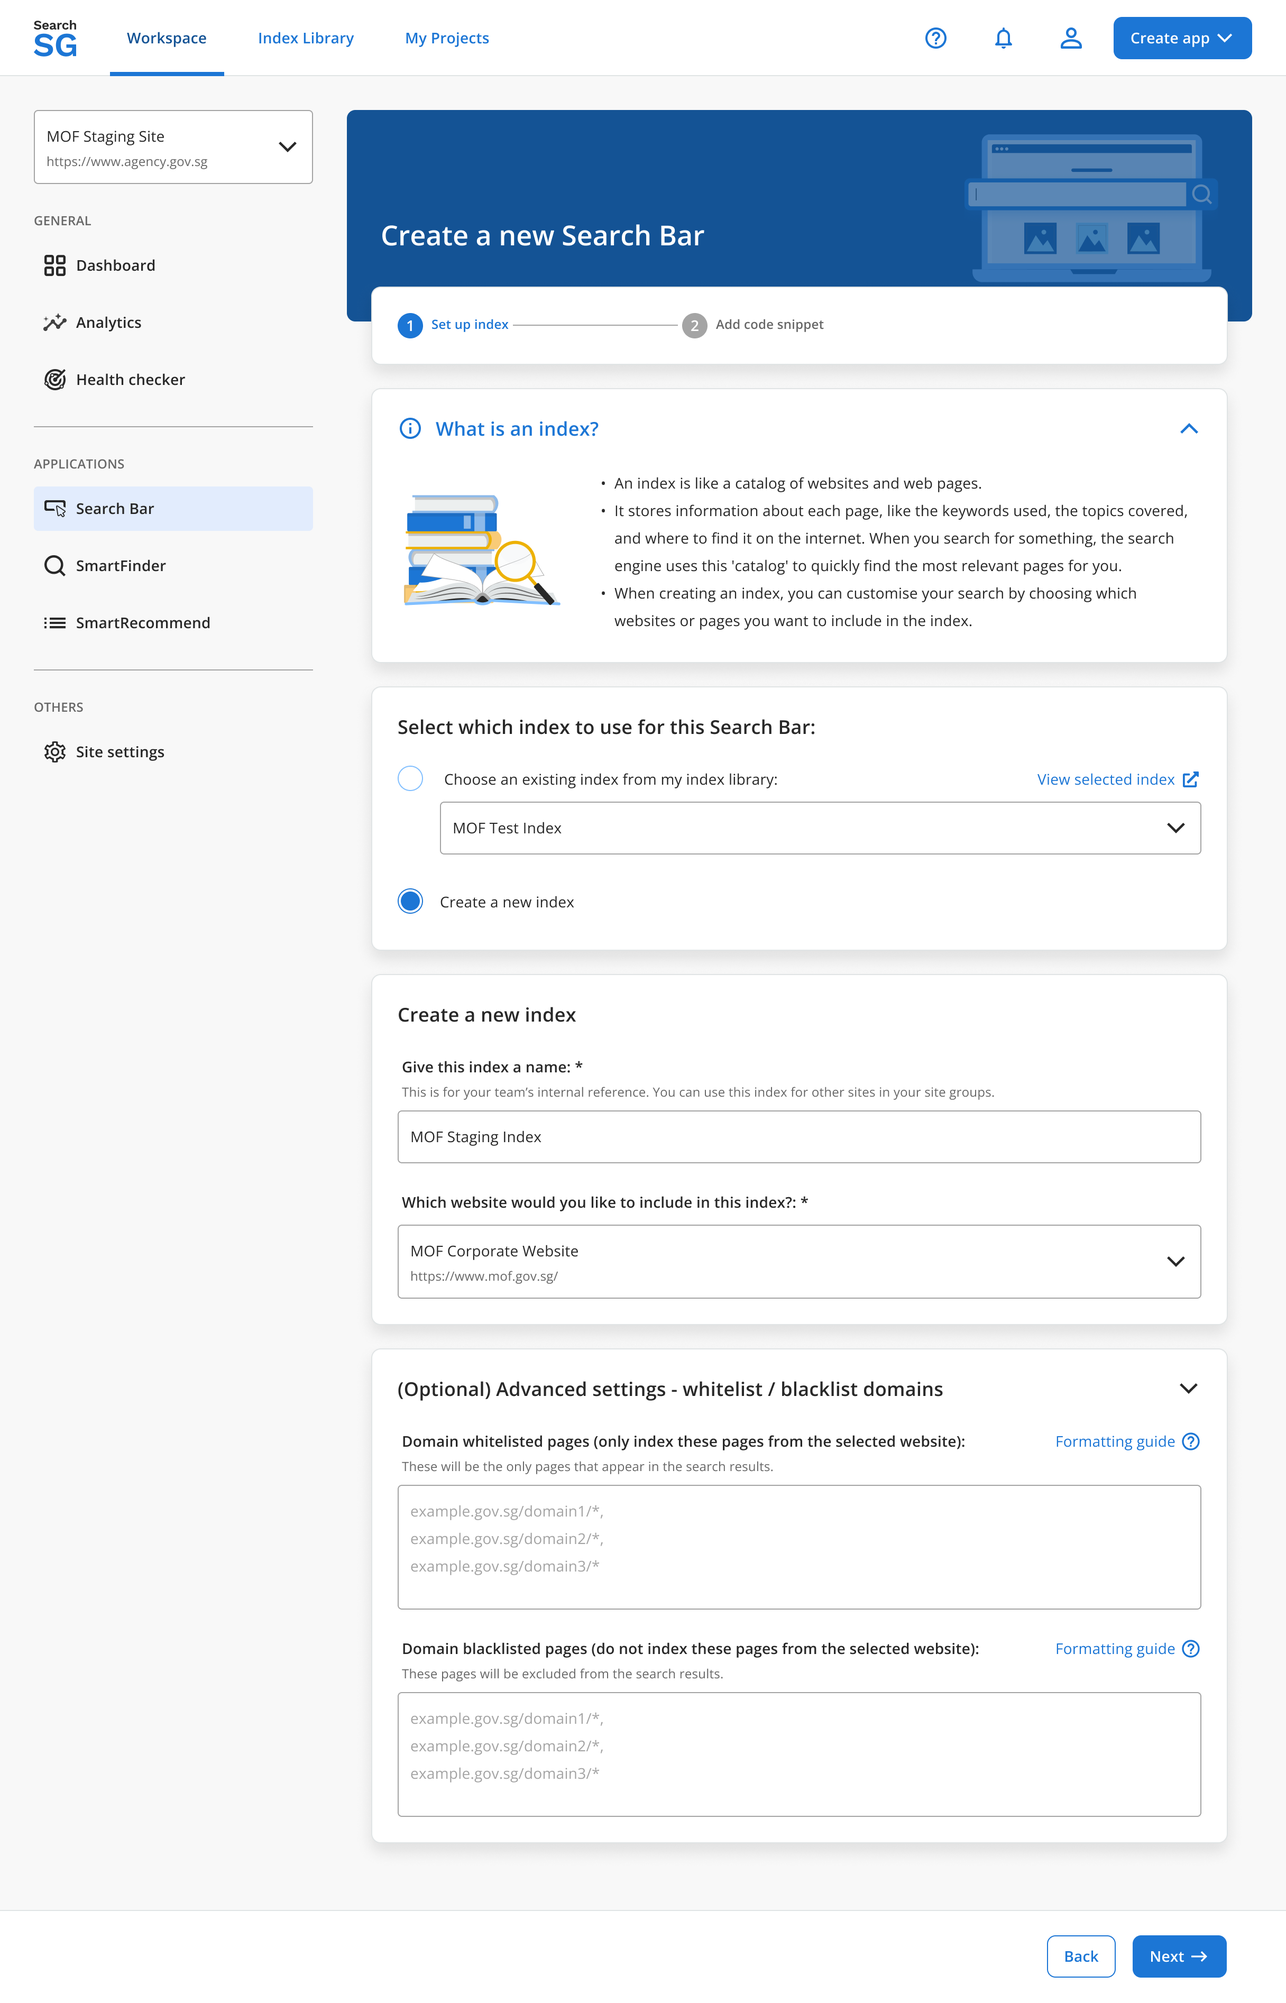
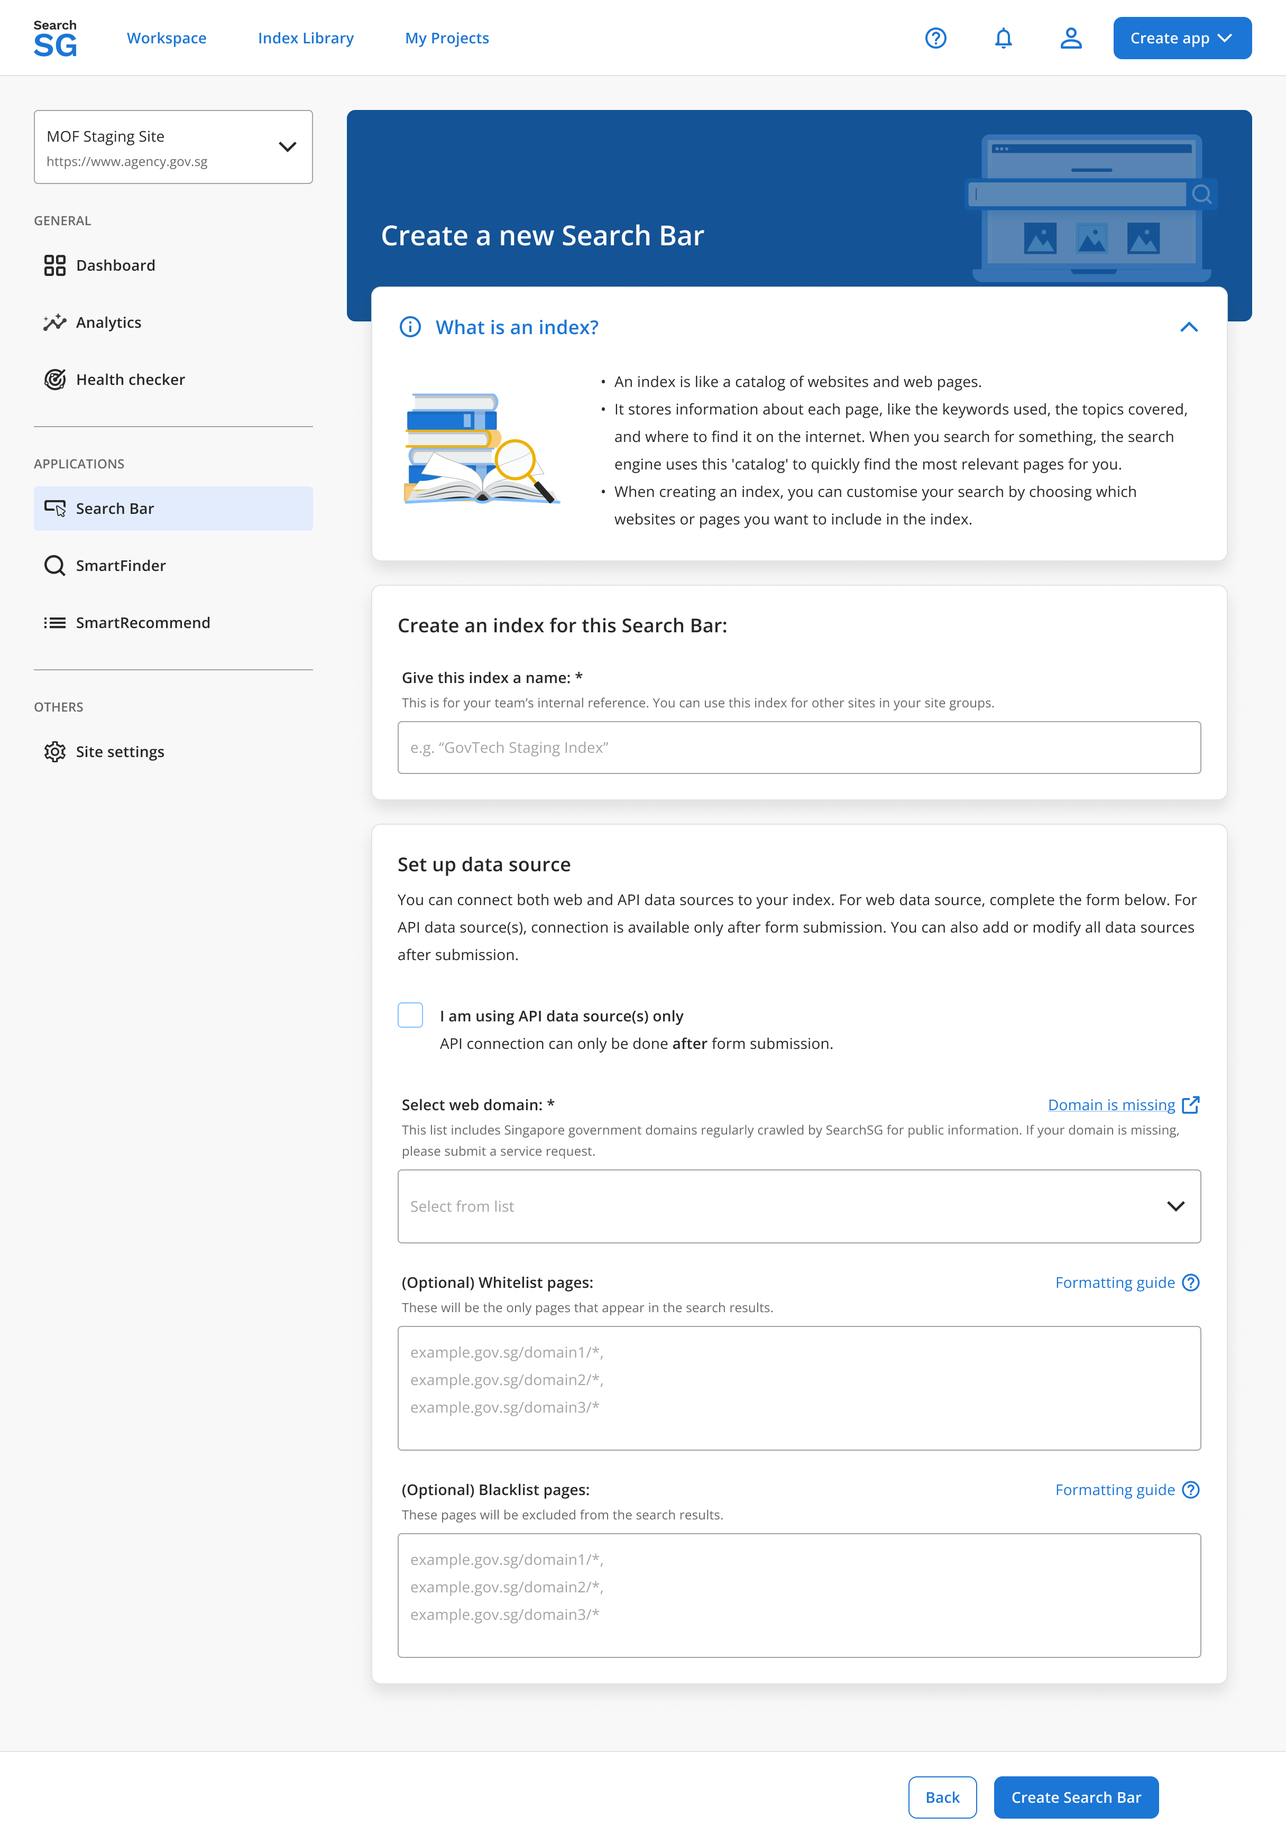
[MISC][YH] Update create search app

diff --git a/application-searchbar.md b/application-searchbar.md
@@ -1,42 +1,55 @@
 ## Search Bar Application
+
 ### How to create a Search Bar Application?
+
 1. Login to Admin Portal.
 
 2. Click on "Create app" then "Search Bar".
-![Create app](images/application/search_bar/add_search_app.png)
+   ![Create app](images/application/search_bar/add_search_app.png)
 
-3. Choose the site you would like to host the search bar then click next. 
-![Create app](images/application/search_bar/define_host_site.png)
-   - If you would like to host the search bar on your existing site, select the site from the drop-down list
+3. Choose the site you would like to host the search bar then click next.
+   ![Create app](images/application/search_bar/define_host_site.png)
 
-   - If you would like to host the search bar on a new site, select the option "Create a new site" and enter the information such as name, URL and choose the environment
-   ![Create app](images/application/search_bar/create_site.png)
+    - If you would like to host the search bar on your existing site, select the site from the drop-down list
 
-   - If you would like to add the new site into your existing project, select the project from the drop-down list
+    - If you would like to host the search bar on a new site, select the option "Create a new site" and enter the information such as name, URL and choose the environment
+      ![Create app](images/application/search_bar/create_site.png)
 
-   - If you would like to add the new site into a new project, select the option "Create a new project" and enter the project name and choose the agency<br>
-   ![Create app](images/application/search_bar/create_project.png)
+    - If you would like to add the new site into your existing project, select the project from the drop-down list
 
-4. Set up index and click "Next"
-   - If you would like to choose the existing from your index library, select the index from the drop-down list
-   ![Create ap](images/application/search_bar/setup_index.png)
-   - If you would like to create a new index, select the option "Create a new index" and enter the index name and website to include in the index. Whitelist and blacklist domains are optional. 
-   ![Create ap](images/application/search_bar/search_bar_create_index.png)
+    - If you would like to add the new site into a new project, select the option "Create a new project" and enter the project name and choose the agency<br>
+      ![Create app](images/application/search_bar/create_project.png)
 
-5. Add code snippet and click on "Complete setup"
-   - After completing the setup, you will be shown a unique `client ID` for your application. Follow the integration guide to complete the integration with your website.
-   ![Create app](images/application/search_bar/complete_setup.png)
-   ![Create app](images/application/search_bar/successful_modal.png)
+4. Set up index and click "Create Search Bar"
 
-6. Click on "View Search Bar settings" to access the application setup page. The application status will initially show as "Inactive" and will change to "Active" once the integration is complete on your website.
-![Create app](images/application/search_bar/search_bar_basic_setup.png)
+    - If you would like to choose the existing from your index library, select the index from the drop-down list
+      ![Create app](images/application/search_bar/setup_index.png)
+    - If you would like to create a new index, select the option "Create a new index" and enter the index name and website to include in the index. Whitelist and blacklist domains are optional.
+      ![Create app](images/application/search_bar/search_bar_create_index.png)
+        - If only API data source(s) are being used., tick the option "I am using API data source(s) only".
+          ![Create app](images/application/search_bar/search_bar_create_index_api_data_source.png)
 
+5. Add code snippet and click on "View dashboard"
+
+    - After completing the setup, you will be shown a unique `client ID` for your application. Follow the integration guide to complete the integration with your website.
+      ![Create app](images/application/search_bar/complete_setup.png)
+    - If the option "I am using API data source(s) only" is selected in the previous step, in addition to following the guide to complete the integration with your website, you must also:
+        - Click on "Add API data source".  
+          ![Create app](images/application/search_bar/complete_setup_API_data_source.png)
+        - Complete the creation of the index on the "Index Overview" - "Data Sources" page. Follow Step 7 in the guide on [create a Search index](/index#how-to-create-a-search-index) to proceed.
+          ![Create app](images/application/search_bar/search_bar_index_overview.png)
+
+6. Click on "View dashboard" to access the dashboard page.
+    - The application status will initially show as "Inactive" and will change to "Active" once the integration is complete on your website.
 
 ### Configuring your Search Bar
+
 Once your search Bar application is created, you can customise your search application under `Applications > Search Bar` section in the side menu.
 
 #### Basic Setup
+
 1. Search Bar Placement
+
     - Enter the HTML Id of the container div element where you would like the search bar component to be rendered on your website.
     - Follow the onboarding guide on how to [add the searchbar widget to your website](https://docs.developer.tech.gov.sg/docs/searchsg-onboarding-guide/getting-started?id=step-2-adding-searchbar-widget-to-your-site).
 
@@ -45,111 +58,125 @@ Once your search Bar application is created, you can customise your search appli
     - If you have chosen to embed the search results `within your own website`, follow the onboarding guide on how to [embed the search results page within your website search page.](https://docs.developer.tech.gov.sg/docs/searchsg-onboarding-guide/customisation-embed?id=embedded-search-results-page-experience)
 
 #### Advanced Setup
+
 Follow the index guide on how to [create, configure and delete a Search index](/index)
 
 #### UI Customization
+
 1. Search bar features
-   - Placeholder text: Customise the text displayed in the search bar before a user types.
 
-   - Quick links: Control whether you want to show suggested pages when you activate the search bar.
+    - Placeholder text: Customise the text displayed in the search bar before a user types.
 
-   - Search suggestions: Select the type of search suggestions you want to provide users
-      - Suggested keywords: Popular queries similar to the user’s search terms. Ranked by keyword frequency and click-through rate.
-      - Suggested results: Top pages that match the user’s search terms. Ranked by page views and click-through rate.
+    - Quick links: Control whether you want to show suggested pages when you activate the search bar.
 
-   - “Try the improved search” call-out: Choose to show or hide this call-out on the search bar. 
-      - Show call-out: Highlight the search bar as a new feature to encourage visitors to use it
-      - Hide call-out: Let the new search bar blend in like an existing feature
+    - Search suggestions: Select the type of search suggestions you want to provide users
+
+        - Suggested keywords: Popular queries similar to the user’s search terms. Ranked by keyword frequency and click-through rate.
+        - Suggested results: Top pages that match the user’s search terms. Ranked by page views and click-through rate.
+
+    - “Try the improved search” call-out: Choose to show or hide this call-out on the search bar.
+        - Show call-out: Highlight the search bar as a new feature to encourage visitors to use it
+        - Hide call-out: Let the new search bar blend in like an existing feature
 
 2. Results page features
-   - Whole-of-Government search scope: 
-      - Enable: Give users the option to search across all government websites for more comprehensive results.
-      - Disable: Limit search within your site. All results shown will only be from your site.
 
-   - Default search results sorting order: 
-      - Sort by Relevance: Sort results based on relevance, based on results that best match the search terms.
-      - Sort by Date: Most recently updated results appear first.
+    - Whole-of-Government search scope:
 
-   - Search result item: Select the details such as `Content type tag`, `'Jump to section' links` and `Topic tag` you would like to show in your search result items.
+        - Enable: Give users the option to search across all government websites for more comprehensive results.
+        - Disable: Limit search within your site. All results shown will only be from your site.
 
+    - Default search results sorting order:
+
+        - Sort by Relevance: Sort results based on relevance, based on results that best match the search terms.
+        - Sort by Date: Most recently updated results appear first.
+
+    - Search result item: Select the details such as `Content type tag`, `'Jump to section' links` and `Topic tag` you would like to show in your search result items.
 
 3. Colours & Fonts
-   - Main colours: Set the default colours that will be applied on your search bar.
 
-   - Brand font: Set the fonts used across the search bar and search results page.
+    - Main colours: Set the default colours that will be applied on your search bar.
+
+    - Brand font: Set the fonts used across the search bar and search results page.
 
 4. Filter settings
-   - Filter display - Content type: Adjust how filter labels appear and choose which filters to hide or show based on your preferences.<br>
-   The content type filter lets visitors refine search results by selecting the specific content type they are looking for (e.g., eServices, Advisories, Contact Information), ensuring more relevant search outcomes.
-      - Top placement display: Display filter group at the top of the search results screen
-      - Side placement display: Display filter group on the side of the search results screen. Set the display label below
 
-   - Filter display - Category filter: Adjust how filter labels appear and choose which filters to hide or show based on your preferences. <br>
-   The category type filter allows visitors to narrow down search results by selecting specific topics or themes they are looking for (e.g., Schemes, Parenting, Marriage), ensuring more targeted and relevant search outcomes.
-      - Category filter display: Display filter group on the side of the search results screen.
+    - Filter display - Content type: Adjust how filter labels appear and choose which filters to hide or show based on your preferences.<br>
+      The content type filter lets visitors refine search results by selecting the specific content type they are looking for (e.g., eServices, Advisories, Contact Information), ensuring more relevant search outcomes.
 
-   - Breakpoint Settings
-      - Screen size adjustments: Define how your search bar appears on different screen sizes. This ensures that your search bar is user-friendly and visually appealing on all devices.
-         - Use SearchSG's predefined defaults: Select this option to use our recommended set of breakpoints
-         - Custom breakpoints: Define your own breakpoints for a more tailored responsive design
+        - Top placement display: Display filter group at the top of the search results screen
+        - Side placement display: Display filter group on the side of the search results screen. Set the display label below
+
+    - Filter display - Category filter: Adjust how filter labels appear and choose which filters to hide or show based on your preferences. <br>
+      The category type filter allows visitors to narrow down search results by selecting specific topics or themes they are looking for (e.g., Schemes, Parenting, Marriage), ensuring more targeted and relevant search outcomes.
+
+        - Category filter display: Display filter group on the side of the search results screen.
+
+    - Breakpoint Settings
+        - Screen size adjustments: Define how your search bar appears on different screen sizes. This ensures that your search bar is user-friendly and visually appealing on all devices.
+            - Use SearchSG's predefined defaults: Select this option to use our recommended set of breakpoints
+            - Custom breakpoints: Define your own breakpoints for a more tailored responsive design
 
 #### Search Filter & Result Item Customisation
-  - Filter configuration preferences: Manage how your website's content is categorised to configure filters for the search results page.
-      - Automated (Recommended): SearchSG uses Machine Learning to automatically tag your website's content based on predefined labels for content types and topics. This tagging system organises pages into two distinct filter groups (Content types; Topics) on the search results page.
-      - Manual: Define your own content types and topics by manually labelling each page. [Follow the guide to manually tagging your pages.](https://docs.developer.tech.gov.sg/docs/searchsg-onboarding-guide/customisation-search-filter?id=search-filter-amp-result-item-customisation)
 
-   - Additional keyword filters (optional): Adjust how filter labels appear and choose which filters to hide or show based on your preferences. <br>
-   The keywords filter allows visitors to narrow down search results by selecting specific keywords they are looking for (e.g., Baby bonus, Housing grant), ensuring more targeted and relevant search outcomes.
+-   Filter configuration preferences: Manage how your website's content is categorised to configure filters for the search results page.
 
-   - Additional custom filters (optional): You can define up to 5 additional categories to better organise your website's content. These custom categories can then be used to display up to 5 additional filter groups, which visitors can use to refine their search results on your search results page. [Follow the guide to setting up custom filters](https://docs.developer.tech.gov.sg/docs/searchsg-onboarding-guide/customisation-search-filter?id=search-filter-amp-result-item-customisation)
+    -   Automated (Recommended): SearchSG uses Machine Learning to automatically tag your website's content based on predefined labels for content types and topics. This tagging system organises pages into two distinct filter groups (Content types; Topics) on the search results page.
+    -   Manual: Define your own content types and topics by manually labelling each page. [Follow the guide to manually tagging your pages.](https://docs.developer.tech.gov.sg/docs/searchsg-onboarding-guide/customisation-search-filter?id=search-filter-amp-result-item-customisation)
 
+-   Additional keyword filters (optional): Adjust how filter labels appear and choose which filters to hide or show based on your preferences. <br>
+    The keywords filter allows visitors to narrow down search results by selecting specific keywords they are looking for (e.g., Baby bonus, Housing grant), ensuring more targeted and relevant search outcomes.
+
+-   Additional custom filters (optional): You can define up to 5 additional categories to better organise your website's content. These custom categories can then be used to display up to 5 additional filter groups, which visitors can use to refine their search results on your search results page. [Follow the guide to setting up custom filters](https://docs.developer.tech.gov.sg/docs/searchsg-onboarding-guide/customisation-search-filter?id=search-filter-amp-result-item-customisation)
 
 ### SmartAnswer
-- SmartAnswer leverages Large Language Models (LLMs) to deliver personalised answers to your queries. Drawing from credible sources within SearchSG's search results, it provides accurate and directly relevant information, saving users' time compared to traditional search methods.
-- See guide to configuring SmartAnswer [here](/application-smartanswer.md).
 
+-   SmartAnswer leverages Large Language Models (LLMs) to deliver personalised answers to your queries. Drawing from credible sources within SearchSG's search results, it provides accurate and directly relevant information, saving users' time compared to traditional search methods.
+-   See guide to configuring SmartAnswer [here](/application-smartanswer.md).
 
 ### How to disable a Search Bar?
+
 1. Login to Admin Portal
 
 2. Navigate to "Workspace" and select your site from the drop-down list
 
 3. Click on "Search Bar" then "Basic setup"
-![Disable app](images/application/search_bar/basic_setup_enabled.png)
+   ![Disable app](images/application/search_bar/basic_setup_enabled.png)
 
-4. Click on switch icon to disable the Search bar 
+4. Click on switch icon to disable the Search bar
 
 5. Enter "DISABLE" in the pop-up window then click on "Disable Search bar". Note: "disable" is case-insensitive.
-![Disable app](images/application/search_bar/enter_disable.png)
+   ![Disable app](images/application/search_bar/enter_disable.png)
 
 6. Search bar will be disabled
-![Disable app](images/application/search_bar/search_bar_disabled.png)
+   ![Disable app](images/application/search_bar/search_bar_disabled.png)
 
 ### How to enable a Search Bar?
-1. Login to Admin Portal 
+
+1. Login to Admin Portal
 
 2. Navigate to "Workspace" and select your site from the drop-down list
 
 3. Click on "Search Bar" then "Basic setup"
-![Disable app](images/application/search_bar/basic_setup_disabled.png)
+   ![Disable app](images/application/search_bar/basic_setup_disabled.png)
 
 4. Click on "Enable Search bar" in the pop-up window
-![Disable app](images/application/search_bar/restore_app_confirm.png)
+   ![Disable app](images/application/search_bar/restore_app_confirm.png)
 
 5. Search bar will be enabled if it's tied to an index
-![Disable app](images/application/search_bar/search_bar_restored.png)
+   ![Disable app](images/application/search_bar/search_bar_restored.png)
 
-   - When enabling a Search bar with missing index 
-      - Click on "connect an index"
-      ![Disable app](images/application/search_bar/basic_setup_disabled_connect_index.png)
+    - When enabling a Search bar with missing index
 
-      - You will be brought to the page to select index to use for the Search bar
-      ![Disable app](images/application/search_bar/enable_search_bar_select_index.png)
+        - Click on "connect an index"
+          ![Disable app](images/application/search_bar/basic_setup_disabled_connect_index.png)
 
-      - After selecing the index, you will be brought to the "Index Overview" page to review or make amendments on the index if needed
-      ![Disable app](images/application/search_bar/enable_search_bar_index_overview.png)
+        - You will be brought to the page to select index to use for the Search bar
+          ![Disable app](images/application/search_bar/enable_search_bar_select_index.png)
 
-      - If you would like to create a new index, click on "Create an index in the Index Library" and you will be brought to "Index Library"
-      ![Disable app](images/application/search_bar/index_library.png)
+        - After selecing the index, you will be brought to the "Index Overview" page to review or make amendments on the index if needed
+          ![Disable app](images/application/search_bar/enable_search_bar_index_overview.png)
 
-      - After selecting the index, follow steps 3 to 5 to enable the Search bar
+        - If you would like to create a new index, click on "Create an index in the Index Library" and you will be brought to "Index Library"
+          ![Disable app](images/application/search_bar/index_library.png)
+
+        - After selecting the index, follow steps 3 to 5 to enable the Search bar
